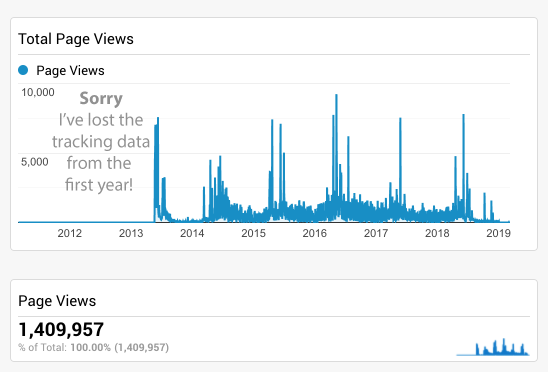
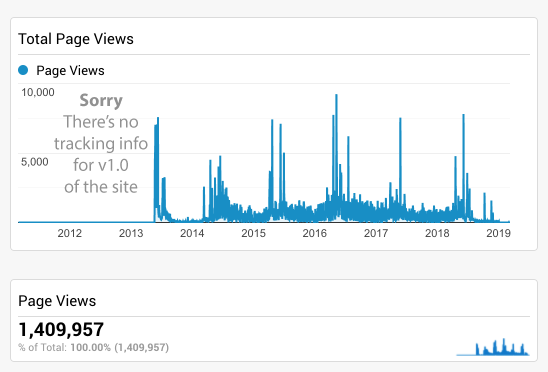
add in the code commit freq

Changed region(s): [[0.0931, 0.2366, 0.2792, 0.5323]]

diff --git a/_posts/2019-03-08-taps-aff.md b/_posts/2019-03-08-taps-aff.md
@@ -82,7 +82,7 @@ Anyone who has had the pleasure of seeing one of their personal projects take of
 
 [![An example friendly email](/media/taps-aff-email.png)](/media/taps-aff-email.png)
 
-### Taps Aff v2.5
+### Taps Aff v2.1
 
 It was important to make the site smarter so I started diving deeper into the weather data I was receiving from Yahoo. The site started to look the 47 available weather codes along with whether the sun was up. By this point the site was now allowing people to search the weather anywhere in the UK so I was on the receiving end of even more ~~critism~~ encouragement.
 
@@ -134,37 +134,43 @@ This incarnation of the site stood for a few years and has served the most amoun
 
 More importantly I wasn't too happy having to keep feeding the [feature creature](https://en.wikipedia.org/wiki/Feature_creep) in a programming language I wasn't interested in using a library that had been [dingied](https://www.urbandictionary.com/define.php?term=dingied) 10 years ago.
 
-Not going to slag Taps Aff v2.5 too much though as it's seen _a lot_ of visitors.
+Not going to slag Taps Aff v2.1 too much though as it's seen _a lot_ of visitors.
 
 [![Tracking Data](/media/taps-aff-tracking.png)](/media/taps-aff-tracking.png)
 
 ## Taps Aff v3.0
 
-A complete rewrite of the site would give me the chance to reinvent The Tap and build something I'd be happy to support and work on continuously.
+In April 2018 [I finally conceded](https://github.com/ColinWaddell/TapsAff-Django/commit/282f1fbc492805bf8b214744a6f614280d8593f1) that a complete rewrite of the site would give me the chance to _reinvent The Tap_ and build something I'd be happy keep working on.
 
-Now's a good time to say that day-to-day I'm a digital engineer in the space industry. I spend my day's doing all sorts of mad stuff. Part of my work recently has had be building web portals to help customers to get their data down from orbit. One of the pieces of technology I had been using almost daily for a couple of years has been [Django](https://www.djangoproject.com/) Web framework and I love it deeply. Deeply.
+Now's a good time to say that day-to-day I'm a digital engineer in the space industry. I spend my day's doing all sorts of mad stuff. Part of my work recently has had be building web portals to help customers to get their data down from orbit. One of the pieces of technology I had been using almost daily for a couple of years has been the [Django](https://www.djangoproject.com/) Web framework and I love it deeply. Deeply.
 
-Working with Django I could also bring in a lot of other tools I've been using to speed up my development process.
+Remember that the whole reason for working on [taps-aff.co.uk](https://taps-aff.co.uk) is meant to be educational and fun? A redesign also would give me the chance to brush up on some modern software developement tools. So cool.
 
-In the end I settled upon:
+**For the nerds:** I decided that for v3.0 what I'd like to play with was:
 
- - Base framework would be Django and would be isolated using [virtualenv](https://docs.python-guide.org/dev/virtualenvs/)
- - I'd use Bootstrap 4 for the frontend
- - Heavy use of [Grunt](https://gruntjs.com/) to automate my most common build and deployment tasks
+ - Django for the backend
+ - [Bootstrap 4](https://getbootstrap.com/) for the frontend
+ - Heavy use of [Grunt](https://gruntjs.com/) to automate a [bunch of jobs](https://github.com/ColinWaddell/TapsAff-Django/blob/master/Gruntfile.js)
  - [Jenkins](https://jenkins.io/) for CI
- - There'd be no JS on the site
+ - I was tempted to use [Vue.js](https://vuejs.org/) but in the end opted for a static site with this [one simple CSS trick Firefox hates](https://github.com/ColinWaddell/TapsAff-Django/blob/master/www/static/sass/tapsaff.scss#L107)
 
-As far as I was concerned though the best thing about moving to this structure is that Django will automatically build me an administrative interface for the website. This allows me to easily tweak settings whilst on-the-go! No longer would the temperature thresholds be baked into the code, instead they'd be held in a database available for adjusting at any time!
-
-The flexibility of this configuration would also give me far more fidelity when deciding whether it was Aff or Oan weather outside. Each of those 47 types of weather mentioned earlier could be individually tweaked: 17°C may make sense (to me) on a still clear day, but what if it's a little cloudy out there?
+My apologies for the technobable above, sincerly. What I meant to say was I was going to build a website _so fancy_ I'd be able to mess with it's millions of settings from my phone.
 
 [![The admin interface](/media/taps-aff-admin.png)](/media/taps-aff-admin.png)
 
-And what about all those missing features people were after? By rebuilding the site in a more familiar framework everything seemed possible. Maps? No bother. API? Piece of piss. Forecasting? Don't sweat it.
+---
 
-In the end the rebuild and implementation of new features only took a couple of weeks and was totally worth it.
+And what about all those missing features people were after? By rebuilding the site in a more familiar framework anything's possible. Maps? No bother. API? Piece of piss. Forecasting? Don't sweat it.
 
-The core of whether it's Taps Aff [now looks like](https://github.com/ColinWaddell/TapsAff-Django/blob/master/www/taps/forecast.py#L54):
+In the end the rebuild and implementation of new features only took a few of weeks and was the requisite level of fun.
+
+[![Workload](/media/taps-aff-commits.png)](/media/taps-aff-commits.png)
+
+---
+
+The core of whether it's Taps Aff [now looks](https://github.com/ColinWaddell/TapsAff-Django/blob/master/www/taps/forecast.py#L54) a bit more professional.
+
+Once weather data has been pulled from Yahoo the database considers whether the conditions are tolerable then the code confirms whether it's hot enough or kind of close.
 
 {% highlight python %}
 
@@ -195,22 +201,26 @@ def _test_taps_aff(code, temp_f, daytime):
 
 {% endhighlight %}
 
-[The source code for the current version of Taps Aff is available here](https://github.com/ColinWaddell/TapsAff-Django)
+[The source code for the current version of Taps Aff is available here](https://github.com/ColinWaddell/TapsAff-Django).
 
 # Where does all this weather data come from?
 
-Since its inception I've been using Yahoo's free weather service to provide realtime status information along with future forecasting and location services (i.e. converting searched postcodes to place names). Recently they updated their service so you need to have a whitelisted application in order to retrieve data from them. [I've documented the move to this service here]({% post_url 2019-03-06-yahoo-weather-example %}) along with any sample code you might need to do the same.
+Since its inception I've been using [Yahoo's free weather service](https://developer.yahoo.com/weather/) to provide realtime status information along with future forecasting and location services (i.e. converting postcodes to place names).
+
+Recently they updated their service and you need to have a whitelisted application in order to retrieve data from them. [I've documented the move to this service here]({% post_url 2019-03-06-yahoo-weather-example %}) along with any sample code you might need to do the same.
 
 [![Daily forecasting](/media/taps-aff-forecast_thumb.png)](/media/taps-aff-forecast_thumb.png)
 
-To keep in Yahoo's good-books I heavily cache requests so that I don't loose access to their free service. I've never made a penny off this site and don't plan on it, so there's no chance I could move over to a paid-for weather service. For the amount of traffic [taps-aff.co.uk](https://taps-aff.co.uk/) receives I'd have to pay the likes of [Weather Underground](http://www.wunderground.com/) thousands of pounds per year... although being able to do hourly forecasting would be super cool!
+To keep in Yahoo's good-books I heavily cache requests so that I don't loose access to their free service. I've never made a penny off this site and don't plan on it, so there's no chance I could move over to a paid-for weather service. For the amount of traffic [taps-aff.co.uk](https://taps-aff.co.uk/) receives I'd have to pay the likes of [Weather Underground](http://www.wunderground.com/) thousands of pounds per year... although being able to do hourly forecasting would be super cool.
 
 
 [![Clothing Map](/media/taps-aff-map_thumb.png)](https://www.taps-aff.co.uk/map/clothing)
 
 # WHEN IS IT *TAPS AFF*?
 
-If you've read this far you deserve to know. On the first sunny day of the year, if there's no wind and the sky is clear the threshold sits around 17°C. The "almost there" warning comes on at about 15°C. Outside of those parameters though it's all over the place, I suppose you could reverse engineer the [default settings](https://github.com/ColinWaddell/TapsAff-Django/blob/master/data/weather_codes.json) if you were really interested.
+If you've read this far you deserve to know. **On the first sunny day of the year, if there's no wind and the sky is clear the threshold sits around 17°C**. The "almost there" warning comes on at about 15°C. 
+
+Outside of those parameters though it's all over the place. I suppose you could reverse engineer the [default settings](https://github.com/ColinWaddell/TapsAff-Django/blob/master/data/weather_codes.json) if you were really interested.
 
 To be honest though the way the site's currently configured I find myself wandering around tweaking the settings from my phone as I'm out and about. I suppose the final answer of when it's Taps Aff _is when I decide it is_. What a superpower.
 
@@ -220,16 +230,17 @@ To be honest though the way the site's currently configured I find myself wander
 
 This website has been a really weird part of my life for ages now.
 
-I've had job interviews whether the employer has been more interesting talking about how I parse the weather outside rather than the work at hand. I've been in meetings where people have started talking about the site in front of me with no idea that I'm behind it. I have even went to start writing [python libraries](https://pypi.org/project/tapsaff/) and [Alexa skills](https://www.amazon.co.uk/Neil-Stewart-Taps-Aff/dp/B01N0MYYF5) to interface with the [API](https://taps-aff.co.uk/api/Glasgow/) and discovered someone's beat me to it.
+I've had job interviews where the employer has been more interesting talking about how I parse the weather outside rather than the work at hand. I was a little freaked out another time someone said "you look like that guy who made Taps Aff".
 
-There's a whole bunch of things I'd like to get to over time. It should be noted though that as much fun as the site is the goal has always remained the same and any future developments are there as as part of a learning sandbox for myself. I think over time I would like to investigate:
+It's the wee moments that I thik are funniest like if someone unwittingly tells me check out the site, or I've gone to start writing [python libraries](https://pypi.org/project/tapsaff/) or [Alexa skills](https://www.amazon.co.uk/Neil-Stewart-Taps-Aff/dp/B01N0MYYF5) to interface with the [API](https://taps-aff.co.uk/api/Glasgow/) and discovered someone's beat me to it.
+
+There's a whole bunch of things I'd like to get to over time. Not forgetting the personal goal for Taps Aff is to have a sandbox to play in and improve as a developer I would like to investigate:
 
  - Operating the site as an [AWS Lambda](https://aws.amazon.com/lambda/faqs/) instance with Zappa
  - Getting [Docker](https://www.docker.com/)/[Kubernetes](https://kubernetes.io/) involved
  - Finish the cross-platofrm app [I started developing](https://github.com/ColinWaddell/TapApp) (just got push notifications to implement and it's done!)
- - Varying the threshold as the year progresses. Peoples willingness to go Taps Aff in April happens at a much lower temperature than in August.
 
-Most of all I can't fucking believe this is what I'm now an expert in. I'm always reminded of this joke:
+Most of all I can't believe this is what I'm now an expert in, it reminds me of this joke:
 
 > A man goes into a pub in a small town and, for whatever reason, gets introduced to the clientele. There’s Farmer Jack, Barman Jim, Maurice "Dancer" and Sheepshagger John. After a few pints, the visitor’s curiosity gets the better of him and he asks John what’s with the nickname.
 > 
